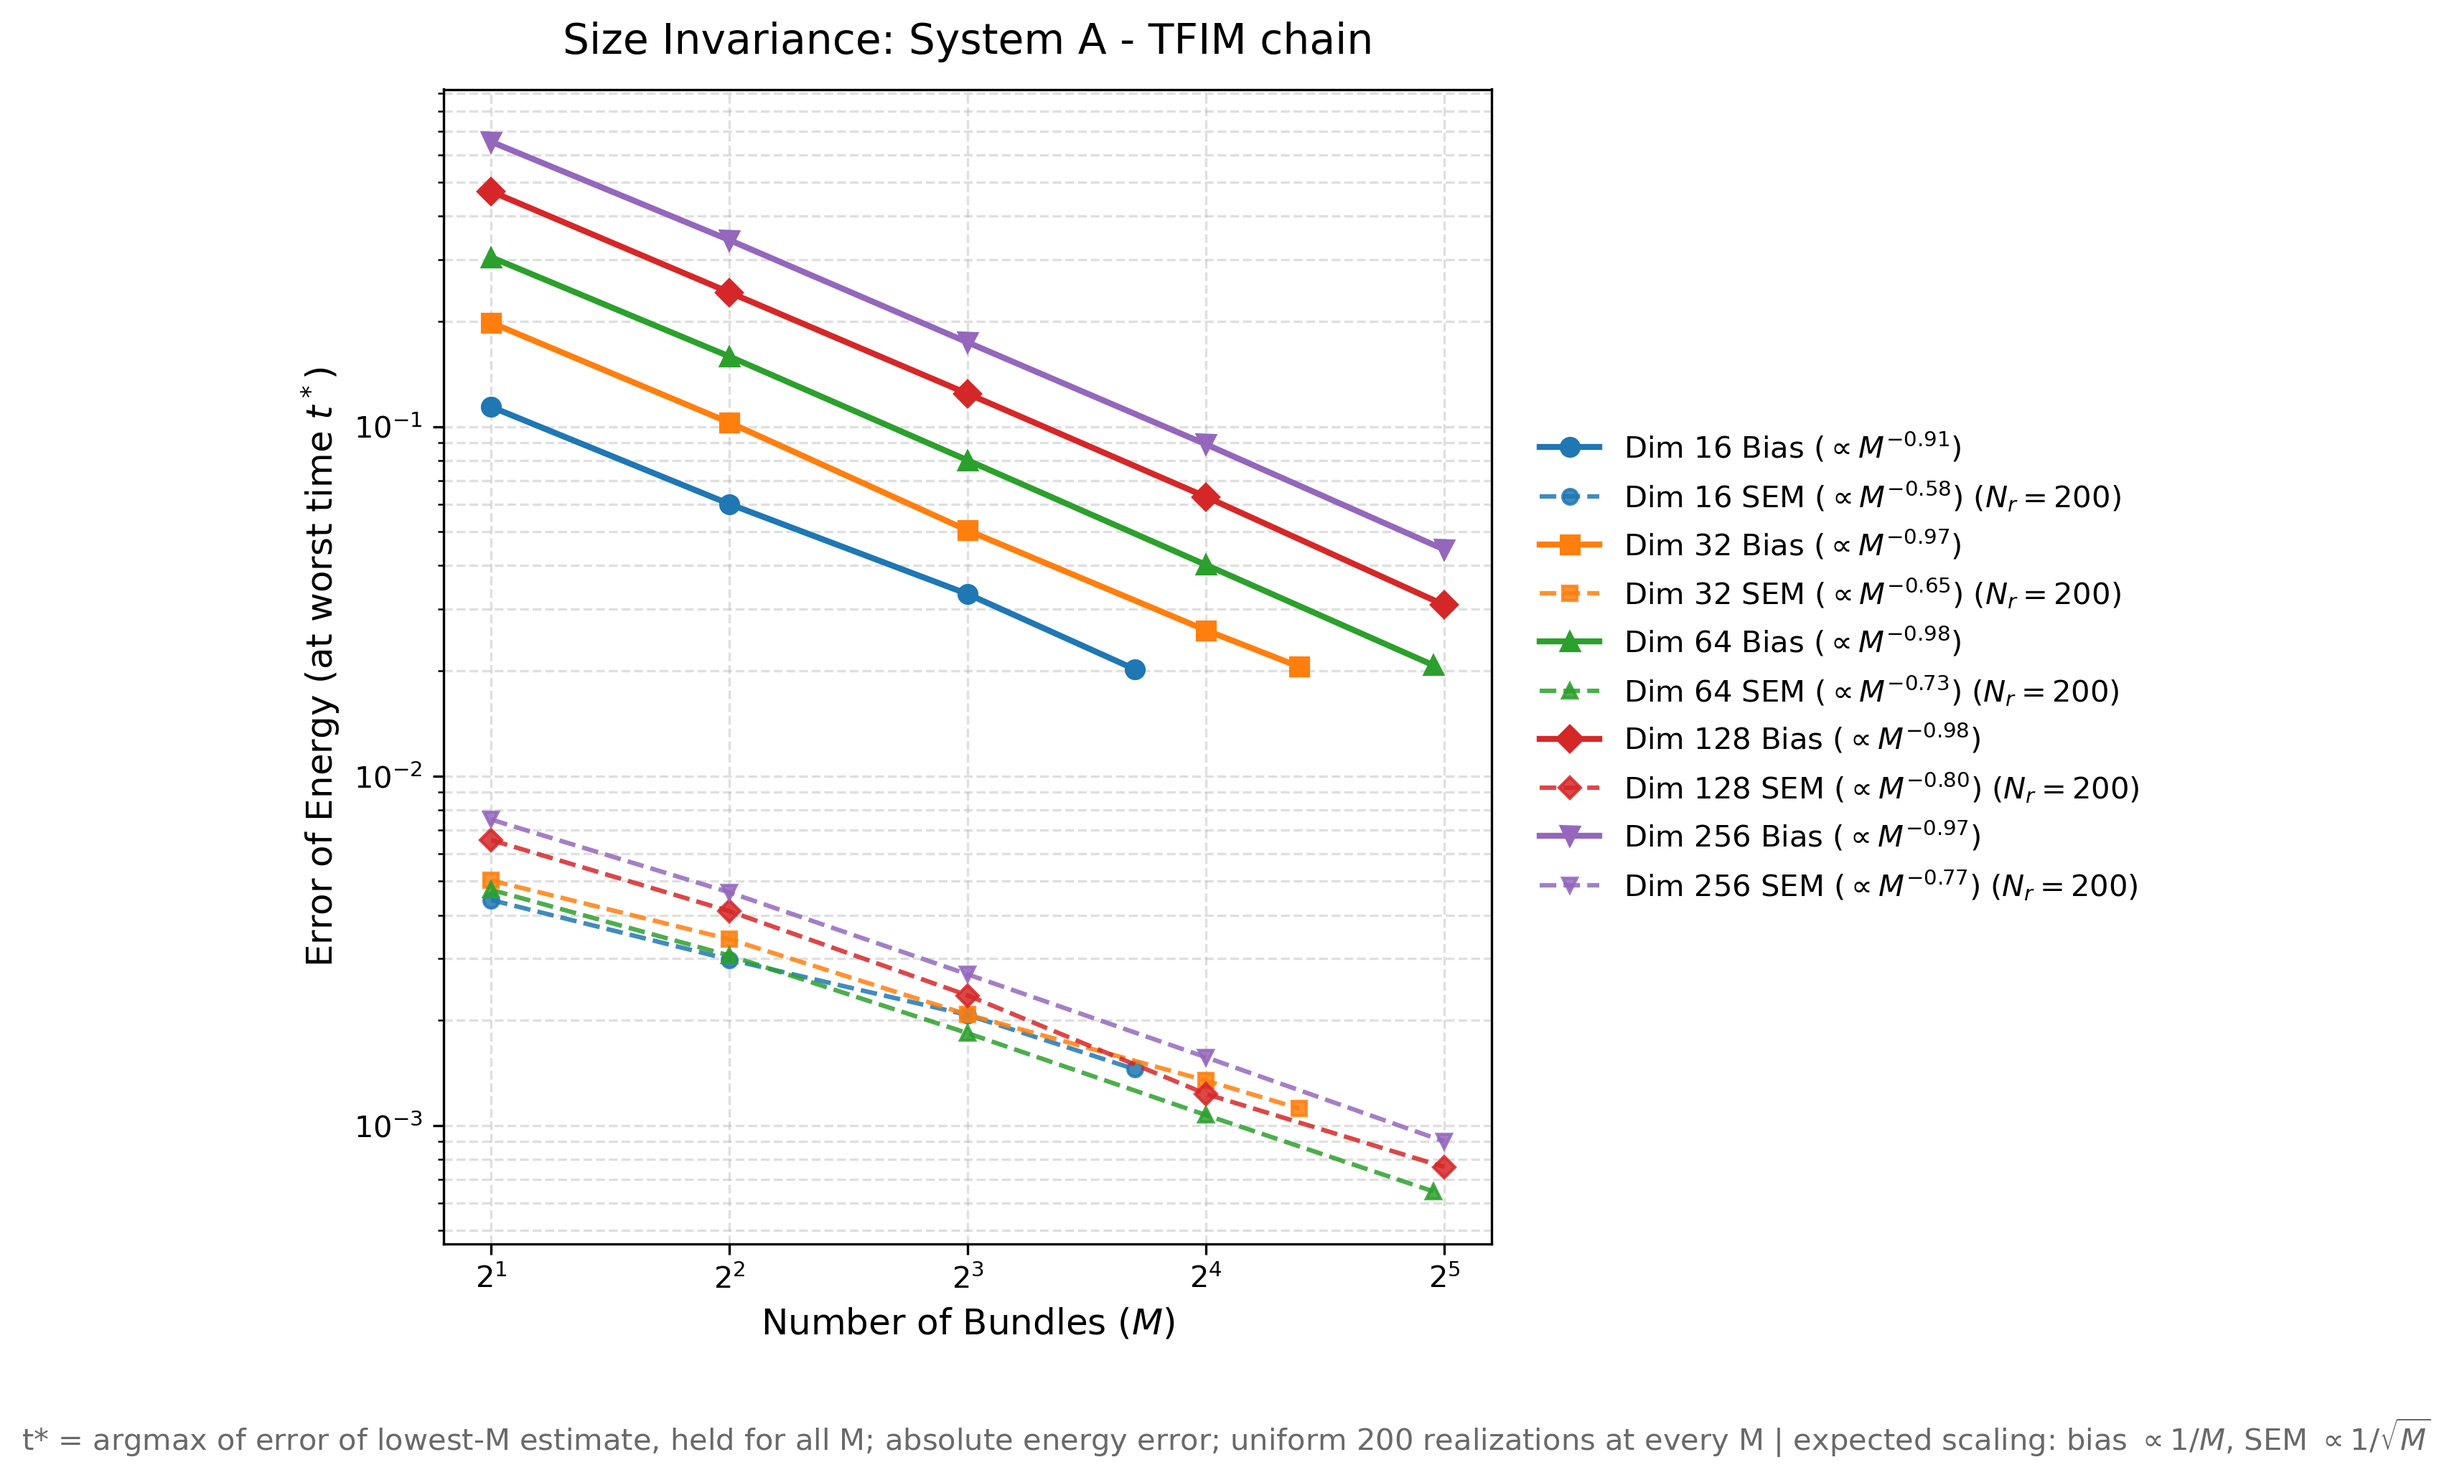
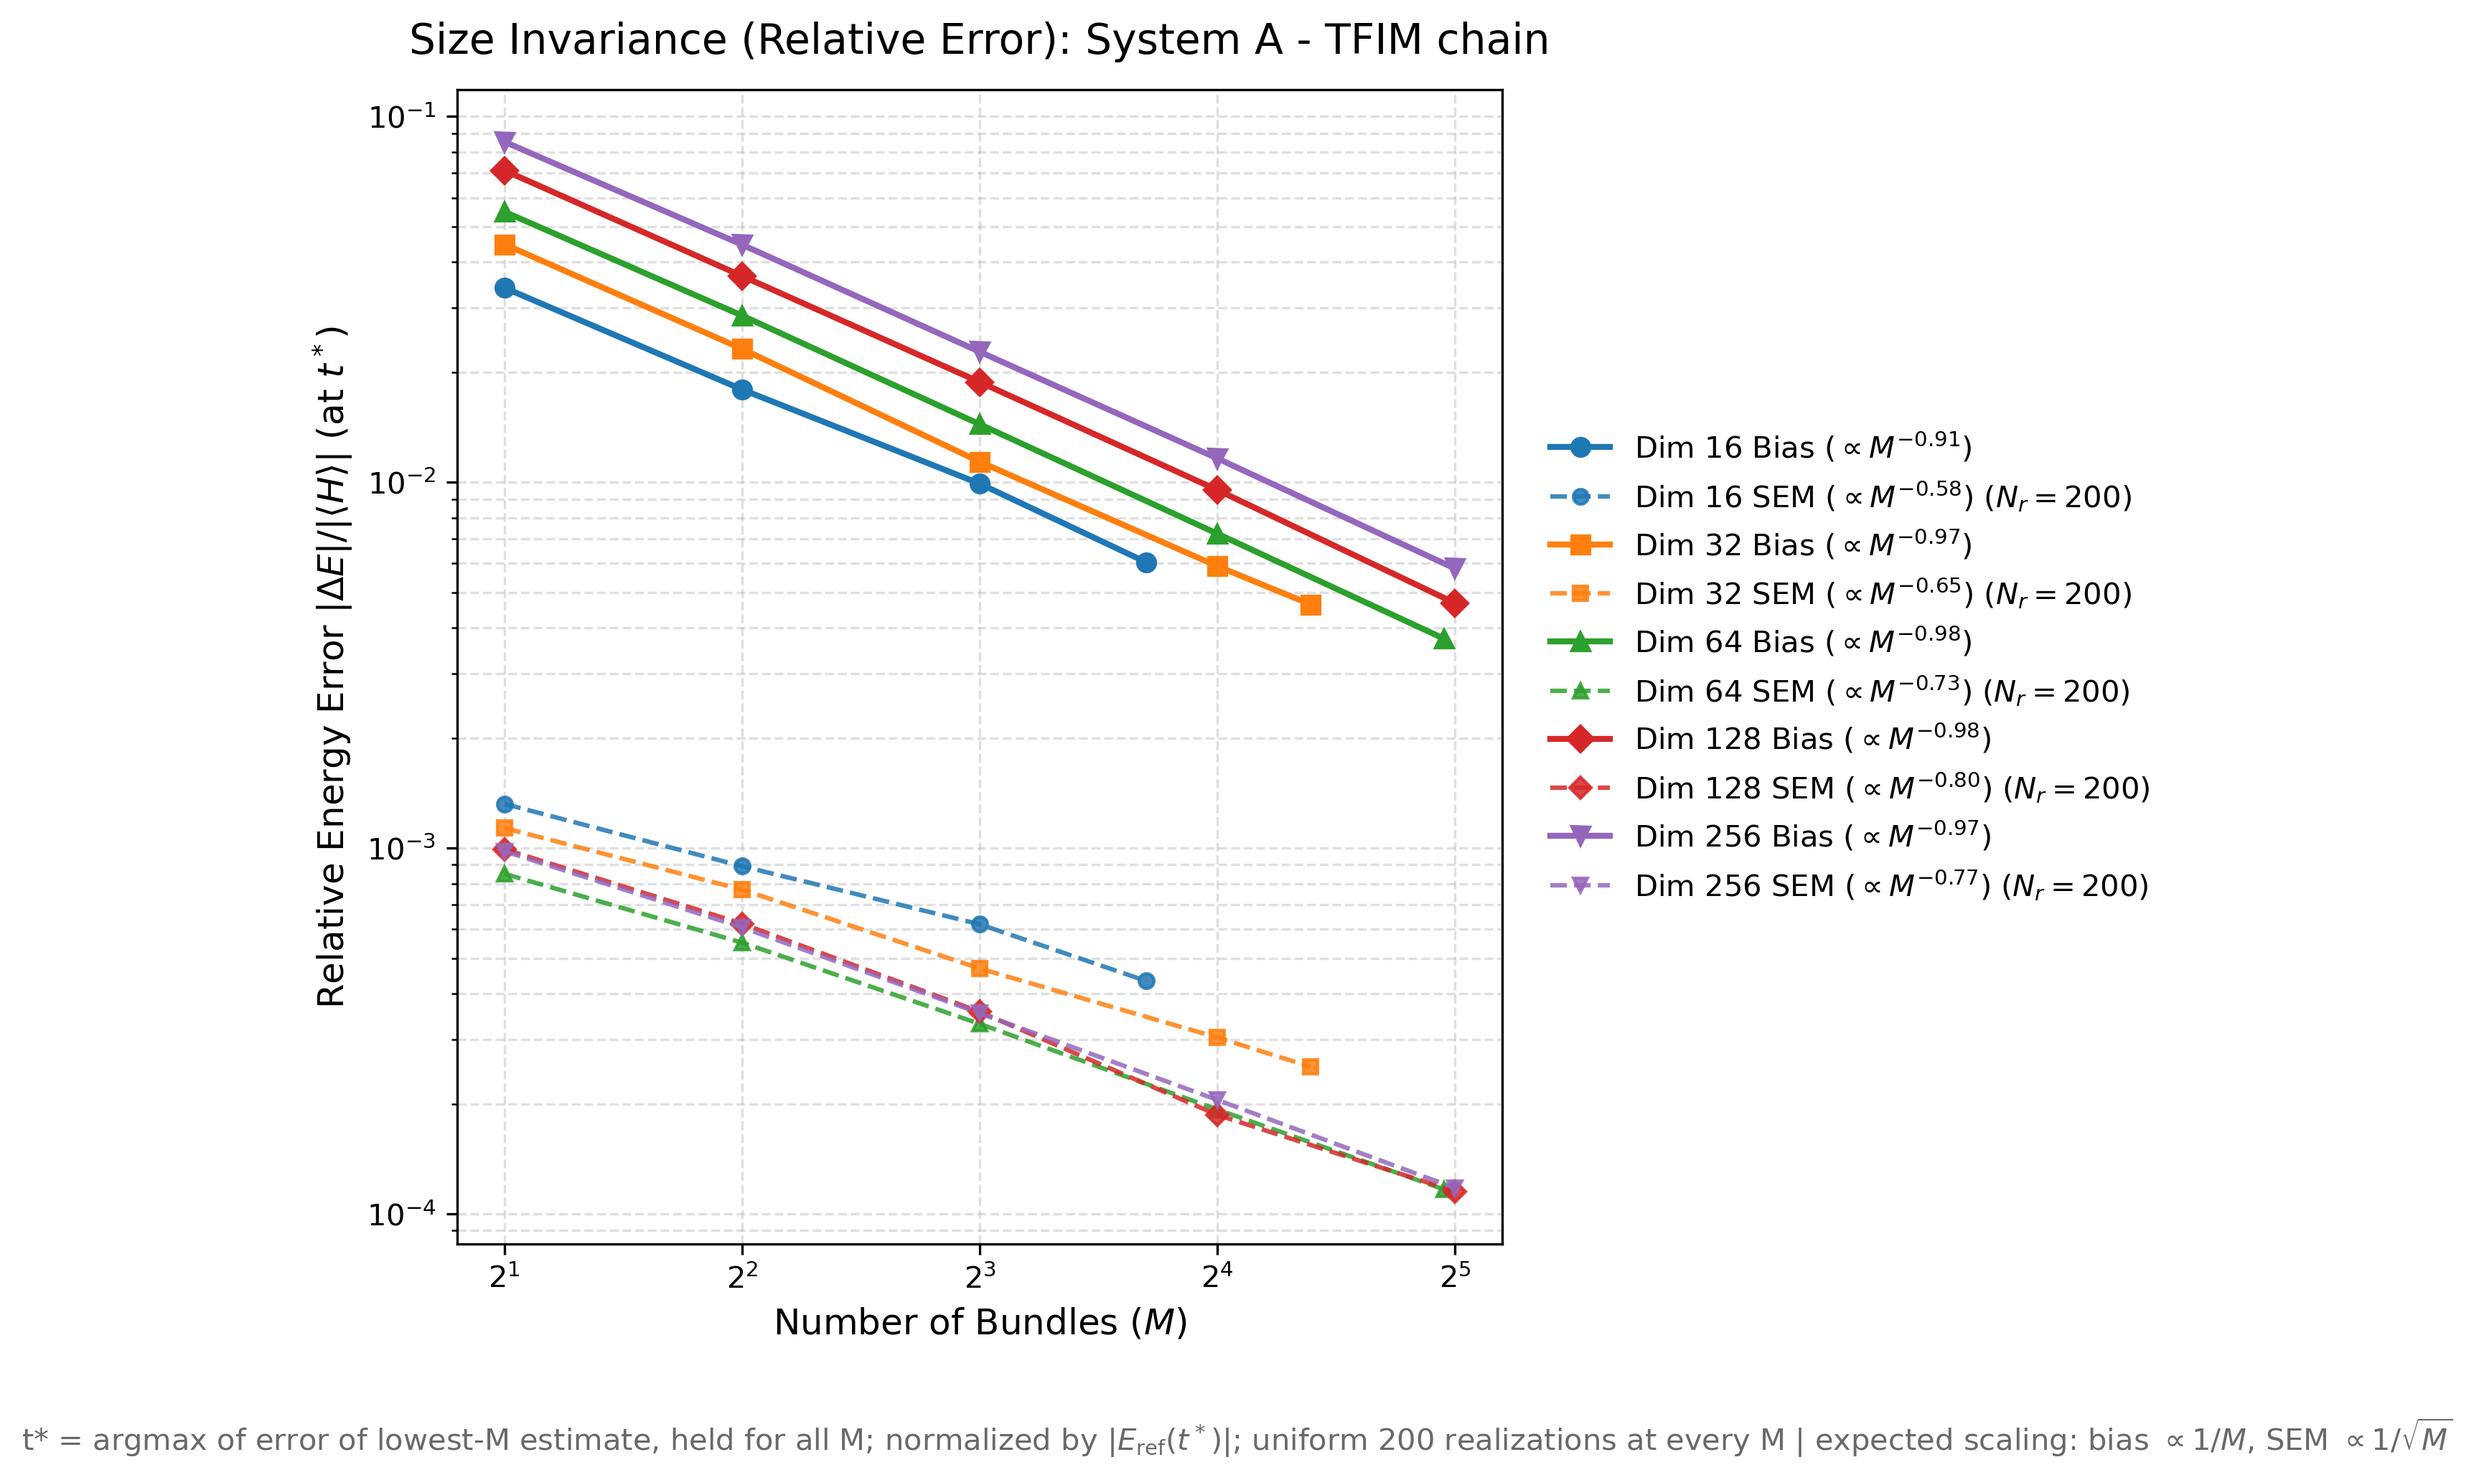
Embed Size Invariance relative error figures directly into BENCHMARKS.md

diff --git a/benchmarks/BENCHMARKS.md b/benchmarks/BENCHMARKS.md
@@ -1434,6 +1434,10 @@ curve.
 sweep at every measured dimension on one axis separates two questions that are
 easy to conflate.
 
+![System A size invariance](accuracy_vs_M_invariance_spin_chain.png)
+![System B size invariance](accuracy_vs_M_invariance_mixed_chain.png)
+![System C size invariance](accuracy_vs_M_invariance_oscillator_bath.png)
+
 **The slope is invariant, and that is the useful part.** Every curve falls as
 $M^{-1}$, and the exponent settles as dimension grows. System A is now measured
 at **five** sizes spanning a sixteen-fold range:
